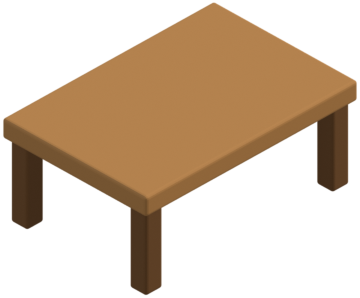
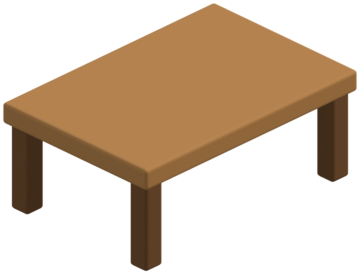
feat(office): orthographic corner camera behind ?office=rendered (lane 01M5D8F7FT)
Task 5 of the office-realism plan. A `Camera {kx, ky}` rides on the `Fit`, so every
`project()` follows it; a Fit without one is `ISO_CAMERA` and the painted path is
byte-for-byte what it was (its snapshots are unchanged). `CORNER_CAMERA` keeps the 45°
azimuth (kx = cos 45°, so Blender renders with a square pixel) and drops the elevation
to ≈26° (ky 0.31) — "a touch lower than today" (spec §2.2); the builder tunes it against
the render with nick's eye (spec §6.2). `roomBox(cam)` and `furnishedBox(cam)` size the
fit for either camera; the floor and footprint shadows and wall text read the camera
off the fit.

The loader refuses a manifest rendered at a different camera (`cameraMatches`) and
leaves the room painted, with the `--ky` to re-render at in the warning: a desk rendered
at one elevation blitted under another reads as a broken drawing. The two desk bases are
re-rendered at ky 0.31 so the flag path matches.

Note on the plan's numbers: the plan wrote CORNER_CAMERA as {0.62, 0.40} from the
mockup's diamond ratio, which is a HIGHER camera than today (elevation ≈40°); the spec's
words are "lower than today". This commit follows the words and keeps the azimuth honest
for Blender; the Task 9 ask to nick carries captures at both so he picks by eye.

Claude-Session: https://claude.ai/code/session_01FNxiXt3sbVaVgfm7wGk4cu

diff --git a/packages/web/src/live/office-scene/iso.ts b/packages/web/src/live/office-scene/iso.ts
@@ -7,6 +7,26 @@
 
 export const KX = 0.70710678;
 export const KY = 0.35355339;
+
+/**
+ * An orthographic corner camera: `kx` spreads a floor unit left/right of the back corner, `ky` drops
+ * it down the panel. Azimuth is always 45° (kx = cos 45°, so Blender renders with a square pixel —
+ * `art/office/scene.py`); elevation is `asin(ky / kx)`. Heights are drawn 1:1 by both paths.
+ */
+export interface Camera {
+  kx: number;
+  ky: number;
+}
+
+/** The painted scene's camera: the 2:1 iso the Figma frames were drawn at (elevation 30°). */
+export const ISO_CAMERA: Camera = { kx: KX, ky: KY };
+/**
+ * The rendered room's camera (office realism, spec §2.2): the same corner, "a touch lower than today"
+ * so figures stand up and faces face the viewer — elevation ≈ 26°. The builder tunes `ky` against the
+ * render with nick's eye (spec §6.2); `art/office/render.py --ky` must be rendered with the same number,
+ * and `manifest.json` records what it was.
+ */
+export const CORNER_CAMERA: Camera = { kx: KX, ky: 0.31 };
 /** Logical floor extent (both axes). Desk/furniture anchors live in [0, FLOOR]. */
 export const FLOOR = 900;
 /** Floor slab thickness, in screen px at scale 1. */
@@ -32,13 +52,21 @@ export interface Fit {
   ox: number;
   oy: number;
   scale: number;
+  /** The camera this fit projects through; absent means `ISO_CAMERA`, so every painted-path caller is unchanged. */
+  cam?: Camera;
+}
+
+/** The camera a fit projects through. */
+export function cameraOf(fit: Fit): Camera {
+  return fit.cam ?? ISO_CAMERA;
 }
 
 /** Project a logical floor point (lx,ly) to screen pixels under a fit. */
 export function project(lx: number, ly: number, fit: Fit): Pt {
+  const cam = fit.cam ?? ISO_CAMERA;
   return {
-    x: fit.ox + (lx - ly) * KX * fit.scale,
-    y: fit.oy + (lx + ly) * KY * fit.scale,
+    x: fit.ox + (lx - ly) * cam.kx * fit.scale,
+    y: fit.oy + (lx + ly) * cam.ky * fit.scale,
   };
 }
 
@@ -88,30 +116,36 @@ export interface FitBox {
  * floor diamond (the old behaviour) let the wall tops clip off the top of the panel at wide/short aspect
  * ratios, which is why the back corner was getting cut off.
  */
-export const ROOM_BOX: FitBox = {
-  left: -FLOOR * KX,
-  right: FLOOR * KX,
-  top: -SCENE_RISE,
-  bottom: FLOOR * KY * 2 + SCENE_DROP,
-};
+export function roomBox(cam: Camera = ISO_CAMERA): FitBox {
+  return {
+    left: -FLOOR * cam.kx,
+    right: FLOOR * cam.kx,
+    top: -SCENE_RISE,
+    bottom: FLOOR * cam.ky * 2 + SCENE_DROP,
+  };
+}
+export const ROOM_BOX: FitBox = roomBox();
 
 /**
  * Fit a box into a panel: the largest scale that leaves `margin` of the binding axis, the box centred.
  * 0.94 → 0.96 (nick, 2026-08-03): the scene is height-bound at most aspects the product uses, so the
  * margin is the room's size on screen, and 6% of unused height on a 720p stream is 43 wasted pixels.
  */
-export function fitBox(panelW: number, panelH: number, box: FitBox, margin = 0.96): Fit {
+export function fitBox(panelW: number, panelH: number, box: FitBox, margin = 0.96, cam?: Camera): Fit {
   const bw = box.right - box.left;
   const bh = box.bottom - box.top;
   const scale = Math.max(0.05, Math.min((panelW * margin) / bw, (panelH * margin) / bh));
-  return {
+  const fit: Fit = {
     ox: panelW / 2 - ((box.left + box.right) / 2) * scale,
     oy: panelH / 2 - ((box.top + box.bottom) / 2) * scale,
     scale,
   };
+  // Only set when asked for: the painted path's fits keep their exact shape (and their snapshots).
+  if (cam) fit.cam = cam;
+  return fit;
 }
 
 /** Fit the whole scene, margin and all — the musterd.io hero and /office-preview; /live and /broadcast fit the furnished room instead (`furnishedBox` in render.ts). */
-export function fitFloor(panelW: number, panelH: number): Fit {
-  return fitBox(panelW, panelH, ROOM_BOX);
+export function fitFloor(panelW: number, panelH: number, cam?: Camera): Fit {
+  return cam ? fitBox(panelW, panelH, roomBox(cam), 0.96, cam) : fitBox(panelW, panelH, ROOM_BOX);
 }

diff --git a/packages/web/src/live/office-scene/index.ts b/packages/web/src/live/office-scene/index.ts
@@ -40,7 +40,7 @@ import {
   stepPet,
 } from './pet';
 import { createReceptionist, receptionistCue, stepReceptionist } from './receptionist';
-import { fitBox, project, ROOM_BOX, type Fit, type Pt } from './iso';
+import { CORNER_CAMERA, fitBox, project, roomBox, type Camera, type Fit, type Pt } from './iso';
 import {
   CHAIR_OFF,
   COFFEE_STAND,
@@ -93,7 +93,7 @@ import {
   type UnitHook,
 } from './damage';
 import { loadRenderedAssets, renderedOfficeFromSearch, type RenderedAssets } from './rendered/assets';
-import { parseManifest } from './rendered/manifest';
+import { cameraMatches, parseManifest } from './rendered/manifest';
 import { makeSpriteCache, resetCtxState } from './sprite-cache';
 import { GESTURE, isIdleGesture } from './skeleton';
 import { createLaneOwners } from './laneOwners';
@@ -409,7 +409,11 @@ export function mountOffice(
      never saw the images). A manifest that is not there — a checkout before the art landed — logs
      once and leaves the room painted. */
   let rendered: RenderedAssets | undefined;
-  if (typeof window !== 'undefined' && renderedOfficeFromSearch(window.location.search)) {
+  const renderedFlag = typeof window !== 'undefined' && renderedOfficeFromSearch(window.location.search);
+  /* The rendered room is drawn from the corner camera (spec §2.2, plan Task 5); the painted room
+     keeps the iso it was drawn at. The camera rides on the fit, so every `project()` follows. */
+  const cam: Camera | undefined = renderedFlag ? CORNER_CAMERA : undefined;
+  if (renderedFlag) {
     const files = import.meta.glob('./rendered/assets/*', { query: '?url', import: 'default', eager: true }) as Record<
       string,
       string
@@ -420,9 +424,15 @@ export function mountOffice(
     } else {
       void fetch(manifestUrl)
         .then((r) => r.json())
-        .then((json: unknown) =>
-          loadRenderedAssets(parseManifest(json), (file) => files[`./rendered/assets/${file}`] ?? file),
-        )
+        .then((json: unknown) => {
+          const manifest = parseManifest(json);
+          if (!cameraMatches(manifest, CORNER_CAMERA)) {
+            throw new Error(
+              `rendered at camera (${manifest.camera.kx}, ${manifest.camera.ky}), scene projects through (${CORNER_CAMERA.kx}, ${CORNER_CAMERA.ky}) — re-render with --ky ${CORNER_CAMERA.ky}`,
+            );
+          }
+          return loadRenderedAssets(manifest, (file) => files[`./rendered/assets/${file}`] ?? file);
+        })
         .then((r) => {
           if (disposed) return;
           if (r.missing.length) console.warn(`office: ${r.missing.length} rendered asset(s) failed to load: ${r.missing.join(', ')}`);
@@ -550,9 +560,9 @@ export function mountOffice(
   let height = Math.max(1, host.clientHeight);
   // The furnished box carries its own breathing room (FURNISHED_PAD, TOP_TRIM), so it fits flush;
   // the whole-room box keeps the 0.96 margin it has always had.
-  const fitTo = options.fit === 'furnished' ? furnishedBox() : ROOM_BOX;
+  const fitTo = options.fit === 'furnished' ? furnishedBox(cam) : roomBox(cam);
   const fitMargin = options.fit === 'furnished' ? 1 : 0.96;
-  let fit: Fit = fitBox(width, height, fitTo, fitMargin);
+  let fit: Fit = fitBox(width, height, fitTo, fitMargin, cam);
 
   const actors: Actors = createActors();
   /** The office dog (pet.ts): asleep in the baked frame; stirred by the ambient scheduler below. */
@@ -861,7 +871,7 @@ export function mountOffice(
     // consumer's stylesheet; `/live`'s `!important` rules still win over these, so nothing moves there.
     canvas.style.width = `${width}px`;
     canvas.style.height = `${height}px`;
-    fit = fitBox(width, height, fitTo, fitMargin);
+    fit = fitBox(width, height, fitTo, fitMargin, cam);
     // Every sprite key carries the fit, so a resize only strands the old rasters — drop them.
     sprites?.clear();
     // A new canvas is a new pixel grid: the next frame paints whole, measured from scratch.

diff --git a/packages/web/src/live/office-scene/iso.test.ts b/packages/web/src/live/office-scene/iso.test.ts
@@ -1,5 +1,18 @@
 import { describe, expect, it } from 'vitest';
-import { FLOOR, KX, KY, SCENE_DROP, SCENE_RISE, fitBox, fitFloor, project } from './iso';
+import {
+  CORNER_CAMERA,
+  FLOOR,
+  ISO_CAMERA,
+  KX,
+  KY,
+  ROOM_BOX,
+  SCENE_DROP,
+  SCENE_RISE,
+  fitBox,
+  fitFloor,
+  project,
+  roomBox,
+} from './iso';
 
 describe('fitFloor', () => {
   it('is exactly the whole-room fit it always was (the hero and /office-preview rely on it)', () => {
@@ -41,5 +54,55 @@ describe('fitBox', () => {
   it('box coordinates are relative to the back corner, where project(0, 0) lands', () => {
     const fit = fitBox(1000, 800, { left: -10, right: 10, top: -10, bottom: 10 });
     expect(project(0, 0, fit)).toEqual({ x: fit.ox, y: fit.oy });
+  });
+});
+
+describe('Camera (office realism Task 5: the corner camera behind ?office=rendered)', () => {
+  it('a Fit without a camera projects exactly as it always did', () => {
+    const fit = { ox: 100, oy: 50, scale: 2 };
+    expect(project(900, 0, fit)).toEqual({ x: 100 + 900 * KX * 2, y: 50 + 900 * KY * 2 });
+    expect(project(300, 500, fit)).toEqual({ x: 100 + (300 - 500) * KX * 2, y: 50 + 800 * KY * 2 });
+    expect(ISO_CAMERA).toEqual({ kx: KX, ky: KY });
+  });
+
+  it('a Fit carrying the corner camera projects through it', () => {
+    const fit = { ox: 100, oy: 50, scale: 2, cam: CORNER_CAMERA };
+    expect(project(900, 0, fit)).toEqual({
+      x: 100 + 900 * CORNER_CAMERA.kx * 2,
+      y: 50 + 900 * CORNER_CAMERA.ky * 2,
+    });
+  });
+
+  it('the corner camera is a touch lower than isometric and still a 45° corner view', () => {
+    // Azimuth stays 45° — Blender renders with a square pixel, so kx is cos 45° for every camera.
+    expect(CORNER_CAMERA.kx).toBeCloseTo(KX, 8);
+    // "Lower than today": a smaller elevation foreshortens the floor more, so ky drops.
+    expect(CORNER_CAMERA.ky).toBeLessThan(KY);
+    expect(CORNER_CAMERA.ky).toBeGreaterThan(0);
+  });
+
+  it('roomBox(ISO_CAMERA) is ROOM_BOX, and the corner camera keeps the whole floor in the panel', () => {
+    expect(roomBox(ISO_CAMERA)).toEqual(ROOM_BOX);
+    expect(roomBox()).toEqual(ROOM_BOX);
+    for (const [w, h] of [[1100, 640], [1920, 1080]] as const) {
+      const fit = fitBox(w, h, roomBox(CORNER_CAMERA), 0.96, CORNER_CAMERA);
+      expect(fit.cam).toBe(CORNER_CAMERA);
+      for (const [lx, ly] of [[0, 0], [FLOOR, 0], [0, FLOOR], [FLOOR, FLOOR]] as const) {
+        const p = project(lx, ly, fit);
+        expect(p.x).toBeGreaterThanOrEqual(0);
+        expect(p.x).toBeLessThanOrEqual(w);
+        expect(p.y).toBeGreaterThanOrEqual(0);
+        expect(p.y).toBeLessThanOrEqual(h);
+      }
+      // …and the walls above the back corner too (the thing the whole-scene box exists for).
+      expect(project(0, 0, fit).y - SCENE_RISE * fit.scale).toBeGreaterThanOrEqual(0);
+    }
+  });
+
+  it('fitBox without a camera leaves cam unset so painted-path callers see the same object shape', () => {
+    const fit = fitBox(1000, 800, ROOM_BOX);
+    expect('cam' in fit).toBe(false);
+    expect(fitFloor(1000, 800)).toEqual(fit);
+    expect(fitFloor(1000, 800, CORNER_CAMERA).cam).toBe(CORNER_CAMERA);
   });
 });

diff --git a/packages/web/src/live/office-scene/render.ts b/packages/web/src/live/office-scene/render.ts
@@ -2,7 +2,7 @@ import { canvasFont } from '../canvasFont';
 import type { WorkingHours } from '@musterd/protocol';
 import type { Appearance } from './appearance';
 import { drawCharacter } from './character';
-import { depth, FLOOR, KX, KY, project, THICK, WALL_H, type Fit, type FitBox, type Pt } from './iso';
+import { cameraOf, depth, FLOOR, ISO_CAMERA, project, THICK, WALL_H, type Camera, type Fit, type FitBox, type Pt } from './iso';
 import type { SpriteCache } from './sprite-cache';
 import { STRIDE, type PetState } from './pet';
 import { RECEPTION_CUE_S, RECEPTIONIST_WAKE_S, type ReceptionistState } from './receptionist';
@@ -253,8 +253,9 @@ export function contactPool(
   const cy = c.y - baseUp * fit.scale;
   // The penumbra spills a little past the footprint, and the pool is offset a touch toward the
   // viewer — the room's light comes from the windows behind, so shade falls to the front.
-  const rx = span * KX * fit.scale * 0.78;
-  const ry = span * KY * fit.scale * 0.92;
+  const cam = cameraOf(fit);
+  const rx = span * cam.kx * fit.scale * 0.78;
+  const ry = span * cam.ky * fit.scale * 0.92;
   ctx.save();
   ctx.translate(c.x, cy + ry * 0.18);
   ctx.scale(1, ry / rx);
@@ -349,8 +350,9 @@ function drawGroundShadow(ctx: CanvasRenderingContext2D, fit: Fit): void {
   const front = project(FLOOR, FLOOR, fit);
   const cx = fit.ox;
   const cy = (back.y + front.y) / 2 + THICK * fit.scale * 0.9; // pooled toward the slab's front base
-  const rx = FLOOR * KX * fit.scale * 1.08;
-  const ry = FLOOR * KY * fit.scale * 1.24;
+  const cam = cameraOf(fit);
+  const rx = FLOOR * cam.kx * fit.scale * 1.08;
+  const ry = FLOOR * cam.ky * fit.scale * 1.24;
   ctx.save();
   ctx.translate(cx, cy);
   ctx.scale(1, ry / rx); // draw a circle, squash it to the iso ellipse
@@ -1086,7 +1088,8 @@ function wallText(
   const o = wallPt(edge, t, u, fit);
   ctx.save();
   ctx.translate(o.x, o.y);
-  ctx.transform(KX * fit.scale, KY * fit.scale, 0, fit.scale, 0, 0);
+  const cam = cameraOf(fit);
+  ctx.transform(cam.kx * fit.scale, cam.ky * fit.scale, 0, fit.scale, 0, 0);
   ctx.font = canvasFont(size, '--font-mono', 700);
   ctx.fillStyle = fill;
   ctx.textAlign = align;
@@ -1452,8 +1455,8 @@ function magicRnd(n: number): number {
  */
 const FURNISHED_PAD = 6;
 const TOP_TRIM = 24;
-export function furnishedBox(): FitBox {
-  const unit: Fit = { ox: 0, oy: 0, scale: 1 };
+export function furnishedBox(cam: Camera = ISO_CAMERA): FitBox {
+  const unit: Fit = { ox: 0, oy: 0, scale: 1, cam };
   const doorPlane = ENTRANCE.lx - 42; // drawEntrance's `wx`
   const doorOuter = project(doorPlane, ENTRANCE.ly + 44 + 5, unit); // the outer post, half its 10 out
   const board = boardAnchor(unit);
@@ -1461,7 +1464,7 @@ export function furnishedBox(): FitBox {
     left: doorOuter.x - FURNISHED_PAD,
     right: board.x + board.w + FURNISHED_PAD,
     top: -WALL_H + TOP_TRIM,
-    bottom: FLOOR * KY * 2 + THICK,
+    bottom: FLOOR * cam.ky * 2 + THICK,
   };
 }
 

diff --git a/packages/web/src/live/office-scene/rendered/manifest.test.ts b/packages/web/src/live/office-scene/rendered/manifest.test.ts
@@ -1,5 +1,5 @@
 import { describe, expect, it } from 'vitest';
-import { assetById, parseManifest } from './manifest';
+import { assetById, cameraMatches, parseManifest } from './manifest';
 
 const desk = {
   id: 'desk/base',
@@ -40,5 +40,18 @@ describe('assetById', () => {
     const m = parseManifest(good);
     expect(assetById(m, 'desk/base')).toEqual(desk);
     expect(assetById(m, 'desk/lamp-on')).toBeUndefined();
+  });
+});
+
+describe('cameraMatches', () => {
+  it('accepts the camera it was rendered at, within rounding', () => {
+    const m = parseManifest(good);
+    expect(cameraMatches(m, { kx: 0.70710678, ky: 0.35355339 })).toBe(true);
+    expect(cameraMatches(m, { kx: 0.7071, ky: 0.35355 })).toBe(true);
+  });
+
+  it('refuses a different elevation — the corner camera over an isometric render', () => {
+    const m = parseManifest(good);
+    expect(cameraMatches(m, { kx: 0.70710678, ky: 0.31 })).toBe(false);
   });
 });

diff --git a/packages/web/src/live/office-scene/rendered/manifest.ts b/packages/web/src/live/office-scene/rendered/manifest.ts
@@ -61,6 +61,15 @@ export function parseManifest(json: unknown): RenderedManifest {
   };
 }
 
+/**
+ * Does a manifest's camera match the camera the scene will project through? A desk rendered at one
+ * elevation blitted under another lands on the wrong pixels and reads as a broken drawing, which is
+ * worse than the painted desk; so a mismatch leaves the room painted (and says so, once).
+ */
+export function cameraMatches(m: RenderedManifest, cam: { kx: number; ky: number }, tol = 1e-4): boolean {
+  return Math.abs(m.camera.kx - cam.kx) <= tol && Math.abs(m.camera.ky - cam.ky) <= tol;
+}
+
 export function assetById(m: RenderedManifest, id: string): RenderedAsset | undefined {
   return m.assets.find((a) => a.id === id);
 }
